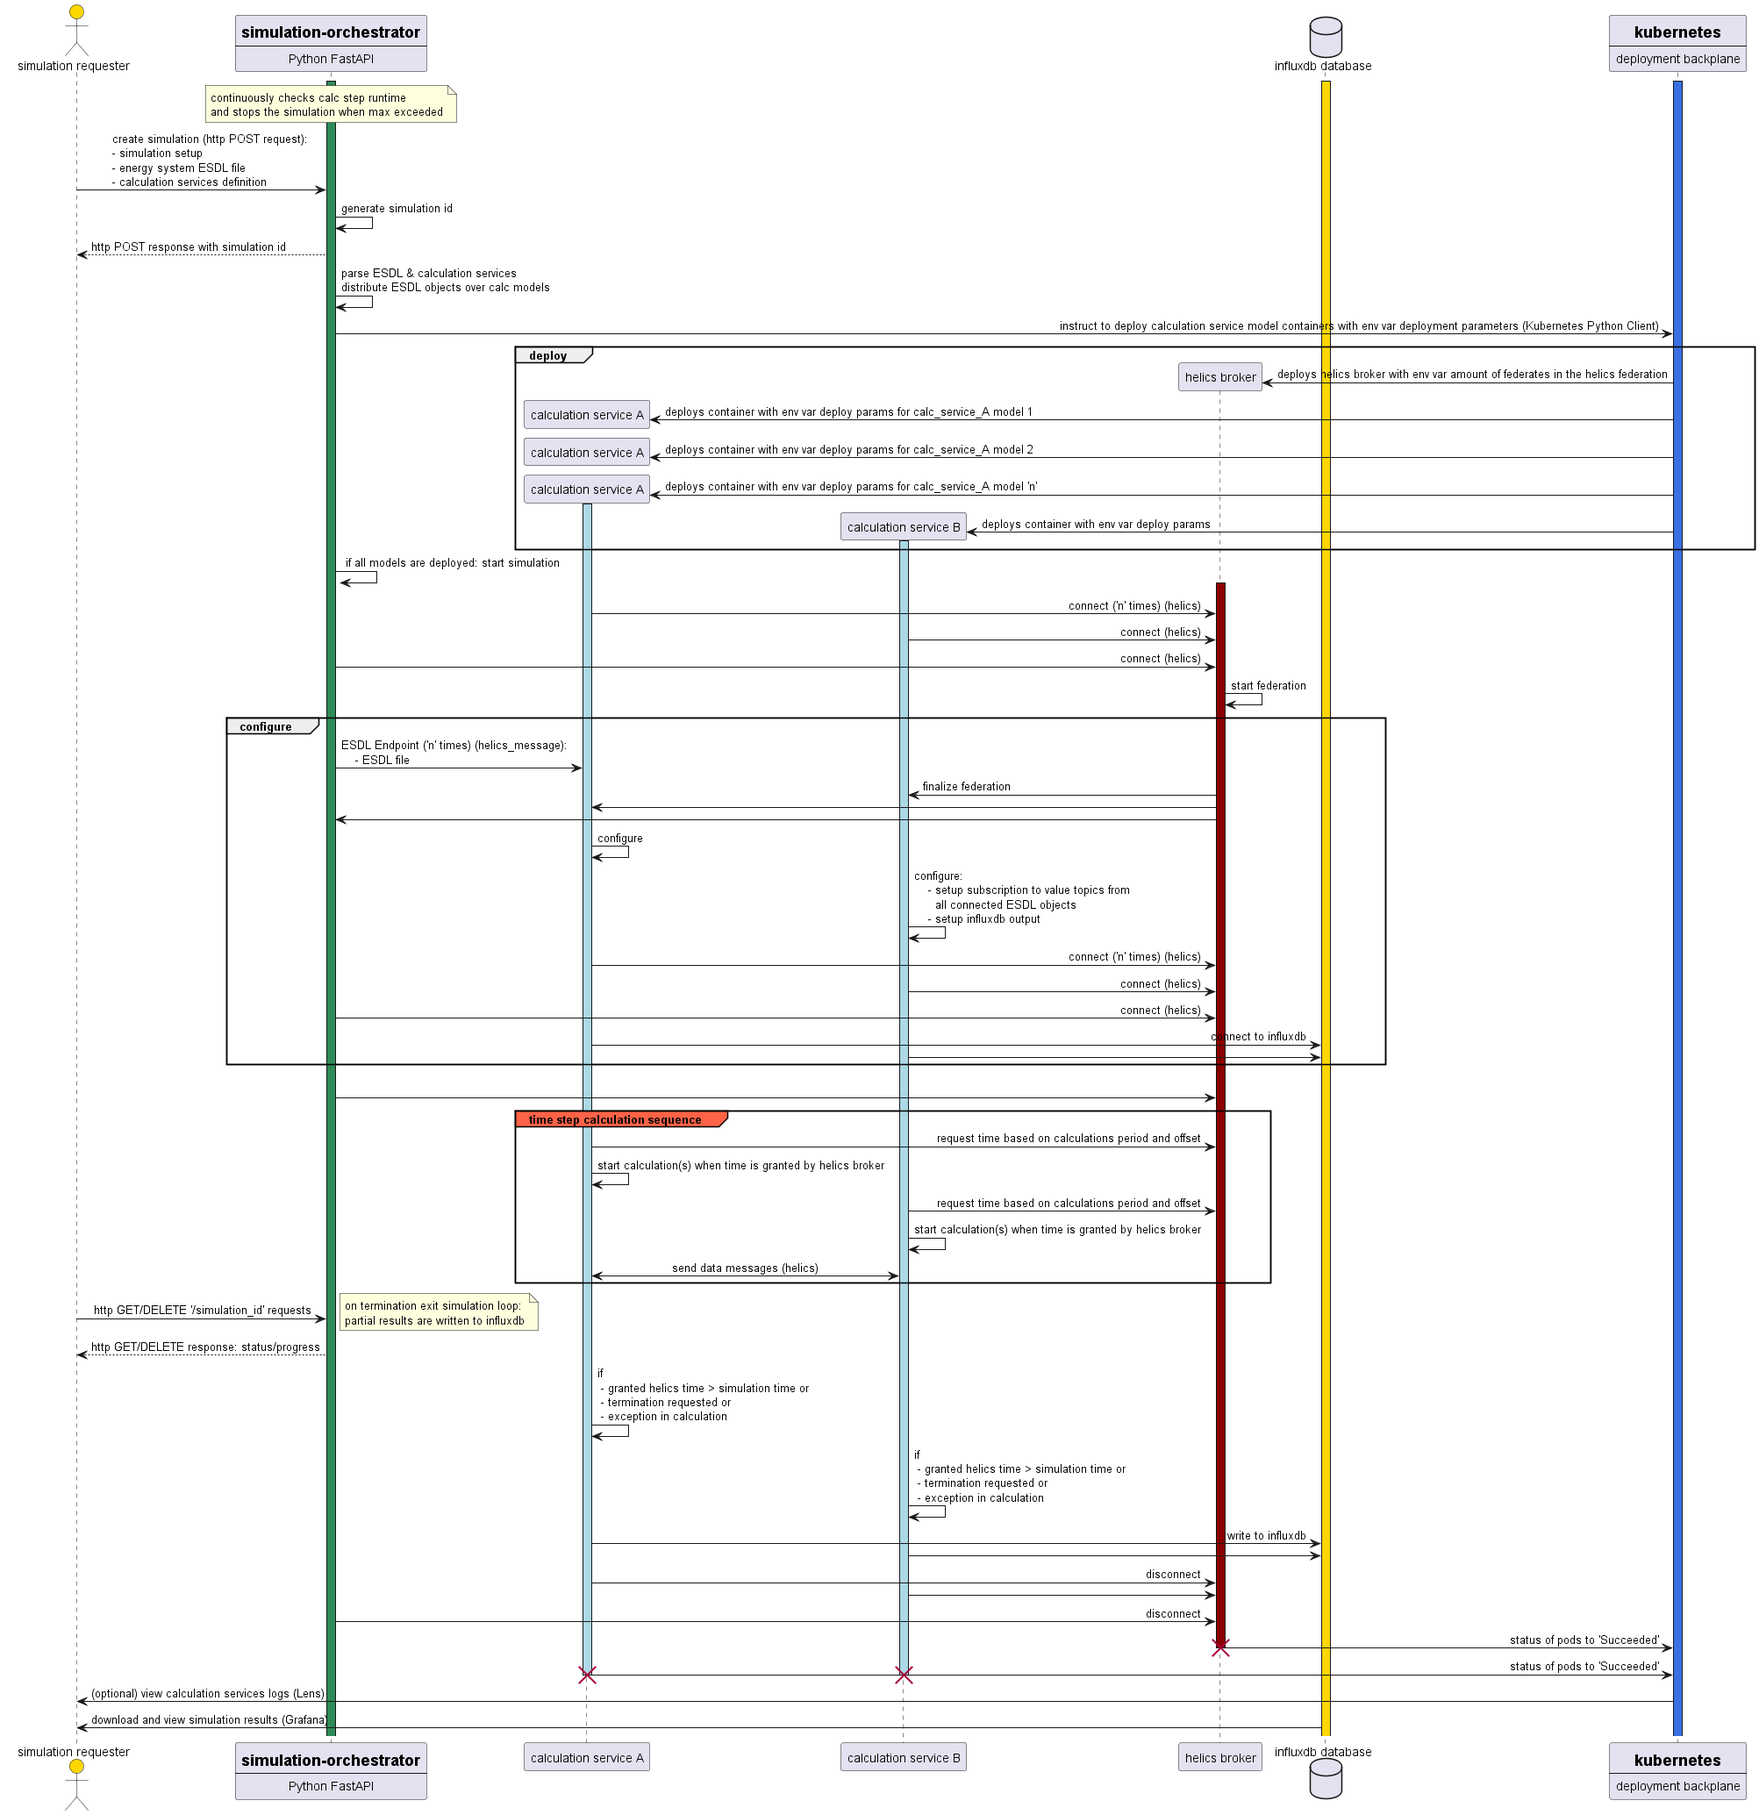
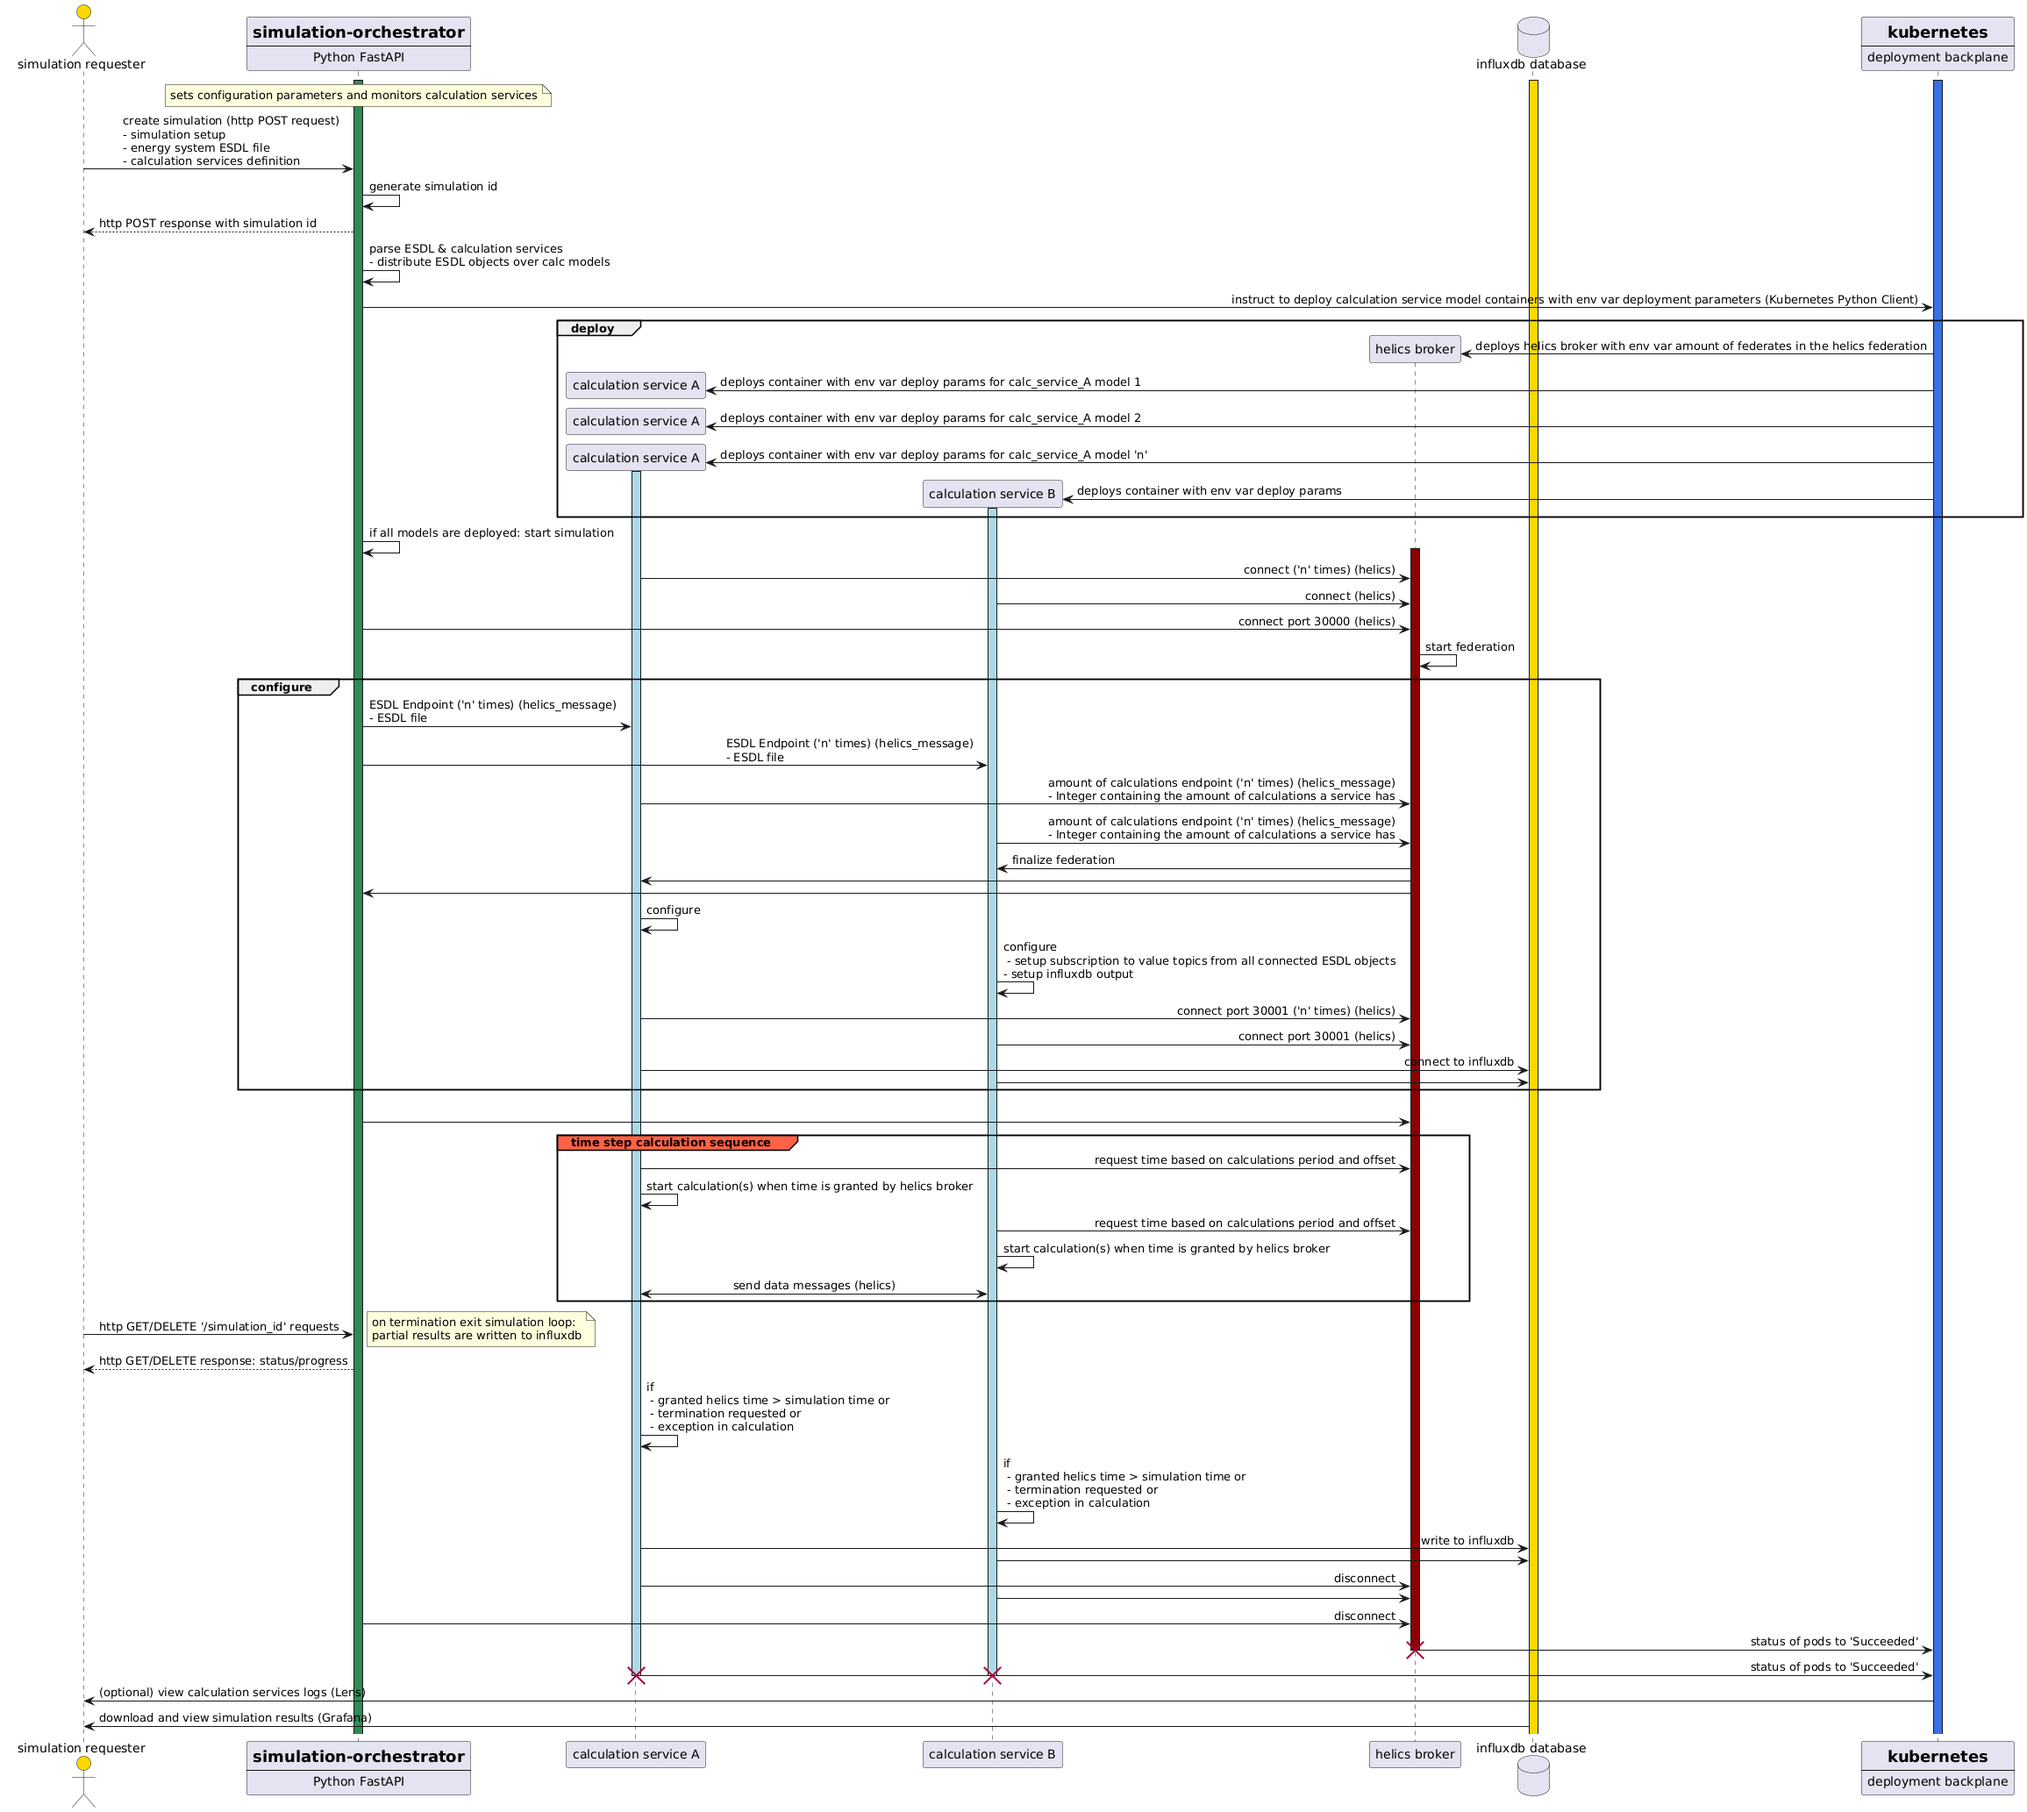
set broker init and exec ports

Changed region(s): [[0.0309, 0.0, 1.0, 0.9913], [0.9895, 0.1859, 1.0, 0.3098], [0.3711, 0.4027, 0.402, 0.4337]]

diff --git a/simulation_orchestrator/model_services_orchestrator/k8s_api.py b/simulation_orchestrator/model_services_orchestrator/k8s_api.py
@@ -29,7 +29,8 @@ from simulation_orchestrator.types import ModelId, SimulationId, SimulatorId
 
 HELICS_BROKER_POD_NAME = "helics-broker"
 HELICS_BROKER_IMAGE_URL = "ghcr.io/dots-energy/dots-helics-broker:latest"
-HELICS_BROKER_PORT = 30000
+HELICS_BROKER_INIT_PORT = 30000
+HELICS_BROKER_EXEC_PORT = 30001
 
 
 class PodStatus:
@@ -154,7 +155,12 @@ class K8sApi:
             broker_pod_name,
             HELICS_BROKER_IMAGE_URL,
             [
-                client.V1EnvVar("HELICS_BROKER_PORT", str(HELICS_BROKER_PORT)),
+                client.V1EnvVar(
+                    "HELICS_BROKER_INIT_PORT", str(HELICS_BROKER_INIT_PORT)
+                ),
+                client.V1EnvVar(
+                    "HELICS_BROKER_EXEC_PORT", str(HELICS_BROKER_EXEC_PORT)
+                ),
                 client.V1EnvVar(
                     "AMOUNT_OF_INITIALIZATION_MESSAGE_FEDERATES",
                     str(amount_of_federates_esdl_message),
@@ -188,7 +194,8 @@ class K8sApi:
         env_vars["esdl_ids"] = ";".join(model.esdl_ids)
         env_vars["esdl_type"] = model.calc_service.esdl_type
         env_vars["broker_ip"] = broker_ip
-        env_vars["broker_port"] = str(HELICS_BROKER_PORT)
+        env_vars["helics_broker_init_port"] = str(HELICS_BROKER_INIT_PORT)
+        env_vars["helics_broker_exec_port"] = str(HELICS_BROKER_EXEC_PORT)
         env_vars["simulation_id"] = simulation.simulation_id
         env_vars["model_id"] = model.model_id
         env_vars["calculation_services"] = ";".join(esdl_types_calculation_services)

diff --git a/simulation_orchestrator/simulation_logic/simulation_executor.py b/simulation_orchestrator/simulation_logic/simulation_executor.py
@@ -6,7 +6,7 @@ from typing import List
 import zipfile
 from simulation_orchestrator.model_services_orchestrator.k8s_api import (
     K8sApi,
-    HELICS_BROKER_PORT,
+    HELICS_BROKER_INIT_PORT,
 )
 from simulation_orchestrator.io.log import LOGGER
 import helics as h
@@ -38,7 +38,7 @@ class SimulationExecutor:
     def _create_new_so_federate_info(self, broker_ip):
         federate_info = h.helicsCreateFederateInfo()
         h.helicsFederateInfoSetBroker(federate_info, broker_ip)
-        h.helicsFederateInfoSetBrokerPort(federate_info, HELICS_BROKER_PORT)
+        h.helicsFederateInfoSetBrokerPort(federate_info, HELICS_BROKER_INIT_PORT)
         h.helicsFederateInfoSetCoreType(federate_info, h.HelicsCoreType.ZMQ)
         h.helicsFederateInfoSetIntegerProperty(
             federate_info, h.HelicsProperty.INT_LOG_LEVEL, h.HelicsLogLevel.DEBUG
